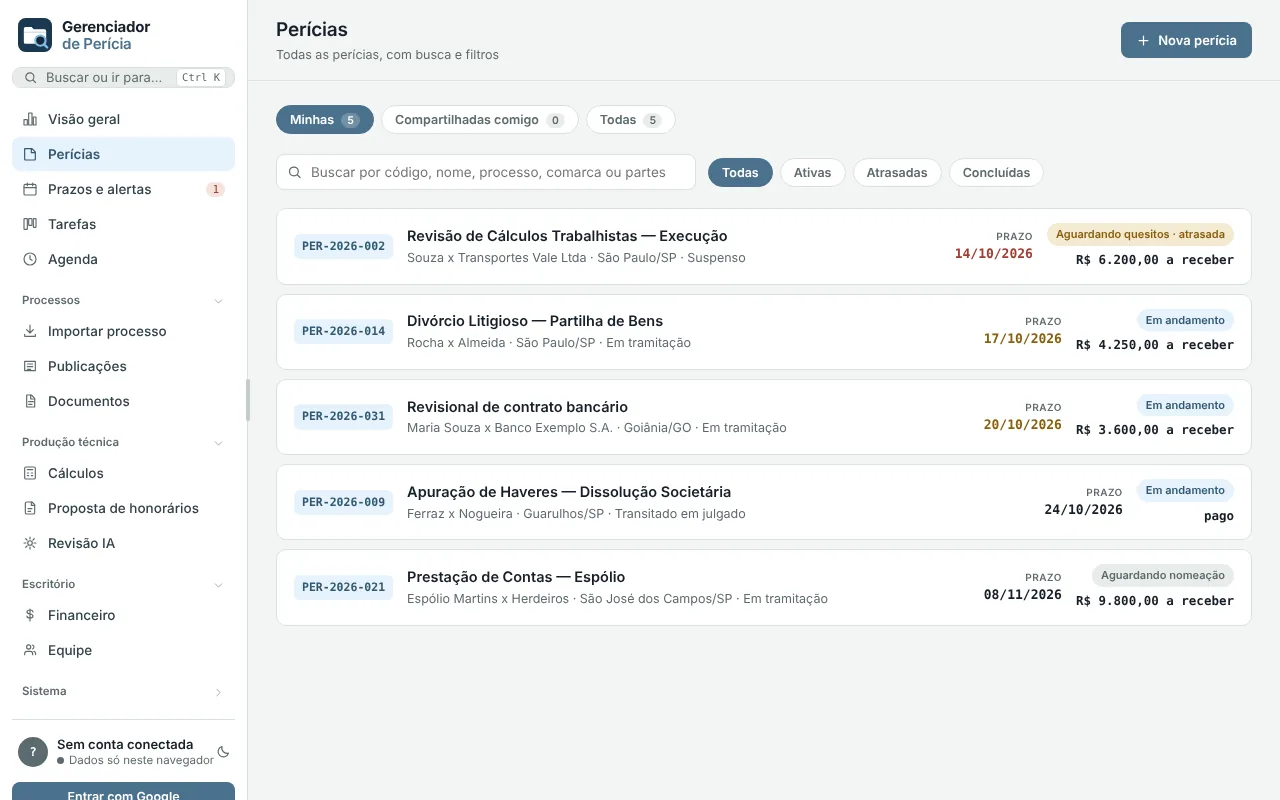
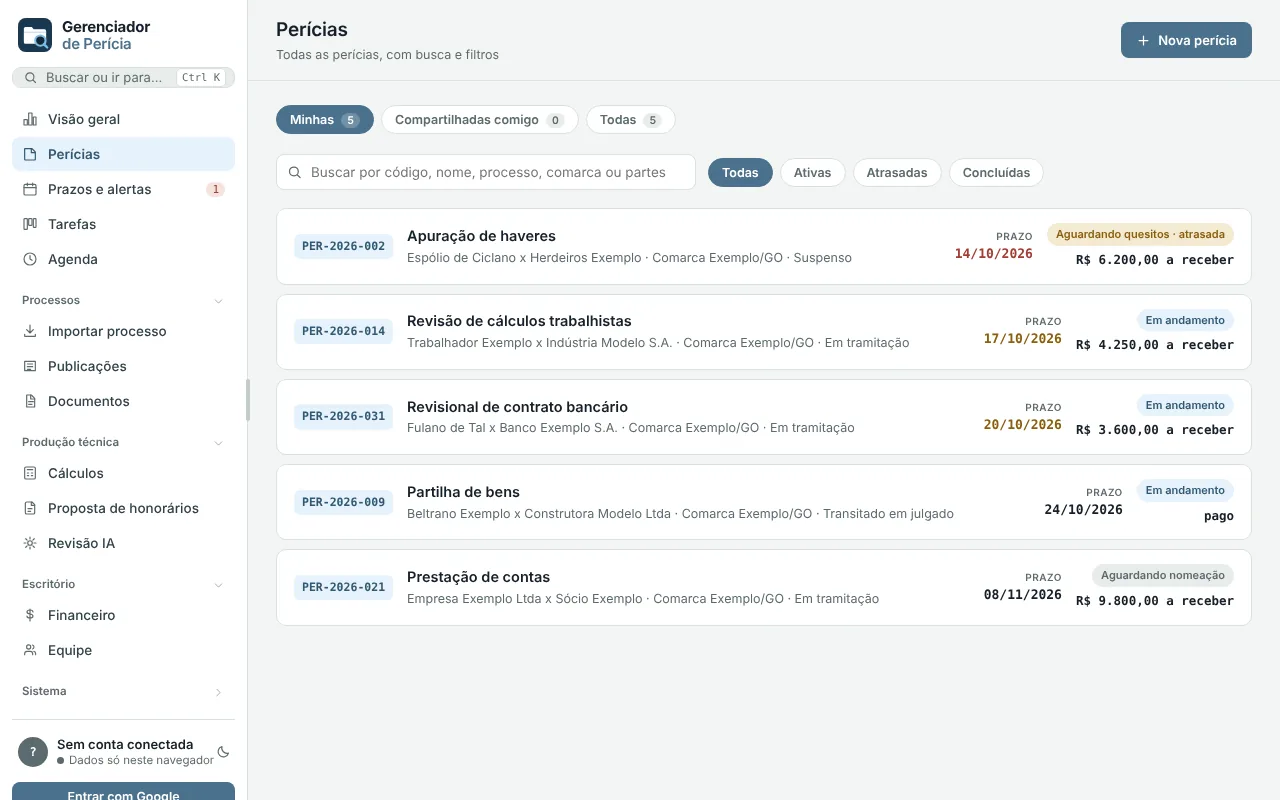
Esqueci a senha com tela própria; demonstração sem dados reais; sem aviso repetido de conta
- "Esqueci a senha" abre a tela Redefinir a senha (leva o e-mail digitado),
  confirma o envio com "Confira o seu e-mail" e libera reenviar após 30 s.
- Telas da apresentação e dados de exemplo internos com números de processo
  zerados (0000001-00.2025.8.00.0000...), partes e e-mails fictícios.
- Tira o quadro "Conectado como..." / "Dados salvos neste navegador" do topo:
  o rodapé da barra lateral já mostra a conta e se está sincronizado. Avisos de
  erro continuam aparecendo.

Claude-Session: https://claude.ai/code/session_01Q2ZR283zQpWnWMQdfmL3dN

diff --git a/index.html b/index.html
@@ -793,6 +793,11 @@ body.travado{overflow:hidden;}
 .login-dica{display:block; margin-top:5px; font-size:11.5px; color:var(--muted);}
 .login-troca{margin:16px 0 0; text-align:center; font-size:13px; color:var(--muted);}
 .login-troca button{font-weight:600;}
+.login-tit{margin:4px 0 6px; font-size:19px; font-weight:600; color:var(--ink);}
+.login-txt{margin:0 0 18px; font-size:13.5px; line-height:1.6; color:var(--ink-2);}
+.login-txt-mudo{font-size:12.5px; color:var(--muted);}
+.login-ok{width:52px; height:52px; border-radius:14px; display:grid; place-items:center; margin:8px 0 14px; background:var(--accent-soft); color:var(--accent-deep);}
+.login-ok svg{width:26px; height:26px;}
 .login-termos{margin:20px 0 0; text-align:center; font-size:11.5px; line-height:1.55; color:var(--muted);}
 .login-termos .lg-link{color:var(--muted);}
 .login-termos .lg-link:hover{color:var(--ink);}
@@ -1892,23 +1897,23 @@ const ICONS = {
 
 function seedData(){
   return [
-    {id:'seed-1', dono:'jonatasmiranda2405@gmail.com', emails:['jonatasmiranda2405@gmail.com'], editores:['jonatasmiranda2405@gmail.com'], compartilhamentos:[], codigo:'PER-2026-014', nome:'Divórcio Litigioso — Partilha de Bens', numeroProcesso:'0812345-67.2025.8.26.0100', codigoAcesso:'JF7K92QX', statusProcesso:'em_tramitacao', vara:'3ª Vara de Família', comarca:'São Paulo/SP', partes:'Rocha x Almeida', dataNomeacao:'2026-06-02', prazoEntrega:'2026-09-25', honorarios:8500, valorRecebido:4250, statusCaso:'em_andamento',
+    {id:'seed-1', dono:'perito.a@exemplo.com', emails:['perito.a@exemplo.com'], editores:['perito.a@exemplo.com'], compartilhamentos:[], codigo:'PER-2026-014', nome:'Divórcio Litigioso — Partilha de Bens', numeroProcesso:'0000001-00.2025.8.00.0000', codigoAcesso:'EXEMPLO1', statusProcesso:'em_tramitacao', vara:'3ª Vara de Família', comarca:'Comarca Exemplo/SP', partes:'Fulano de Tal x Beltrana Exemplo', dataNomeacao:'2026-06-02', prazoEntrega:'2026-09-25', honorarios:8500, valorRecebido:4250, statusCaso:'em_andamento',
       documentos:[
         {id:'d1', nome:'Procuração', tipo:'Procuração', fase:'Habilitação das Partes', data:'2026-06-10', obs:''},
         {id:'d2', nome:'Quesitos do juízo', tipo:'Quesitos', fase:'Quesitos das Partes', data:'2026-07-01', obs:'Recebidos via DJE'}
       ],
       observacoes:[{id:'o1',data:'2026-07-15',texto:'Aguardando resposta do banco sobre extratos societários solicitados por ofício.'}]},
-    {id:'seed-2', dono:'rodrigodosantosmiranda@gmail.com', emails:['rodrigodosantosmiranda@gmail.com'], editores:['rodrigodosantosmiranda@gmail.com'], compartilhamentos:[], codigo:'PER-2026-009', nome:'Apuração de Haveres — Dissolução Societária', numeroProcesso:'1002233-11.2024.8.26.0224', codigoAcesso:'RN4T18BZ', statusProcesso:'transitado', vara:'2ª Vara Empresarial', comarca:'Guarulhos/SP', partes:'Ferraz x Nogueira', dataNomeacao:'2026-03-14', prazoEntrega:'2026-08-20', honorarios:14000, valorRecebido:14000, statusCaso:'concluida',
+    {id:'seed-2', dono:'perito.b@exemplo.com', emails:['perito.b@exemplo.com'], editores:['perito.b@exemplo.com'], compartilhamentos:[], codigo:'PER-2026-009', nome:'Apuração de Haveres — Dissolução Societária', numeroProcesso:'0000002-00.2025.8.00.0000', codigoAcesso:'EXEMPLO2', statusProcesso:'transitado', vara:'2ª Vara Empresarial', comarca:'Comarca Exemplo/SP', partes:'Empresa Exemplo Ltda x Sócio Exemplo', dataNomeacao:'2026-03-14', prazoEntrega:'2026-08-20', honorarios:14000, valorRecebido:14000, statusCaso:'concluida',
       documentos:[
         {id:'d3', nome:'Laudo Pericial Contábil', tipo:'Laudo Pericial', fase:'Laudo Pericial', data:'2026-08-18', obs:'Protocolado nos autos'}
       ],
       observacoes:[{id:'o2',data:'2026-08-19',texto:'Levantamento concluído; honorários integralmente recebidos.'}]},
-    {id:'seed-3', dono:'jonatasmiranda2405@gmail.com', emails:['jonatasmiranda2405@gmail.com'], editores:['jonatasmiranda2405@gmail.com'], compartilhamentos:[], codigo:'PER-2026-002', nome:'Revisão de Cálculos Trabalhistas — Execução', numeroProcesso:'0045566-90.2023.5.02.0031', codigoAcesso:'', statusProcesso:'suspenso', vara:'31ª Vara do Trabalho', comarca:'São Paulo/SP', partes:'Souza x Transportes Vale Ltda', dataNomeacao:'2025-11-20', prazoEntrega:'2026-08-30', honorarios:6200, valorRecebido:0, statusCaso:'aguardando_quesitos',
+    {id:'seed-3', dono:'perito.a@exemplo.com', emails:['perito.a@exemplo.com'], editores:['perito.a@exemplo.com'], compartilhamentos:[], codigo:'PER-2026-002', nome:'Revisão de Cálculos Trabalhistas — Execução', numeroProcesso:'0000003-00.2025.8.00.0000', codigoAcesso:'', statusProcesso:'suspenso', vara:'31ª Vara do Trabalho', comarca:'Comarca Exemplo/SP', partes:'Trabalhador Exemplo x Transportadora Modelo Ltda', dataNomeacao:'2025-11-20', prazoEntrega:'2026-08-30', honorarios:6200, valorRecebido:0, statusCaso:'aguardando_quesitos',
       documentos:[
         {id:'d5', nome:'Despacho — quesitos suplementares', tipo:'Despacho', fase:'Despacho de Quesitos Suplementares', data:'2026-06-01', obs:''}
       ],
       observacoes:[{id:'o3',data:'2026-06-02',texto:'Partes intimadas para apresentação de quesitos suplementares.'}]},
-    {id:'seed-4', dono:'rodrigodosantosmiranda@gmail.com', emails:['rodrigodosantosmiranda@gmail.com'], editores:['rodrigodosantosmiranda@gmail.com'], compartilhamentos:[], codigo:'PER-2026-021', nome:'Prestação de Contas — Espólio', numeroProcesso:'0678812-45.2025.8.26.0577', codigoAcesso:'', statusProcesso:'em_tramitacao', vara:'1ª Vara de Sucessões', comarca:'São José dos Campos/SP', partes:'Espólio Martins x Herdeiros', dataNomeacao:'2026-08-01', prazoEntrega:'2026-11-30', honorarios:9800, valorRecebido:0, statusCaso:'aguardando_nomeacao',
+    {id:'seed-4', dono:'perito.b@exemplo.com', emails:['perito.b@exemplo.com'], editores:['perito.b@exemplo.com'], compartilhamentos:[], codigo:'PER-2026-021', nome:'Prestação de Contas — Espólio', numeroProcesso:'0000004-00.2025.8.00.0000', codigoAcesso:'', statusProcesso:'em_tramitacao', vara:'1ª Vara de Sucessões', comarca:'Comarca Exemplo/SP', partes:'Espólio de Ciclano x Herdeiros Exemplo', dataNomeacao:'2026-08-01', prazoEntrega:'2026-11-30', honorarios:9800, valorRecebido:0, statusCaso:'aguardando_nomeacao',
       documentos:[],
       observacoes:[{id:'o4',data:'2026-08-05',texto:'Nomeação publicada no DJE; aguardando decurso do prazo recursal das partes.'}]},
   ];
@@ -5032,11 +5037,17 @@ function avisoLogin(texto, tipo){
   el.textContent = texto || '';
   el.className = 'login-aviso ' + (tipo || '');
 }
+let loginEmailMemo = '';
+let recuperarEnviado = '';
+let recuperarEspera = 0;
 function trocarModoLogin(modo){
+  const em = document.getElementById('loginEmail');
+  if(em) loginEmailMemo = em.value.trim();
   loginModo = modo;
+  if(modo !== 'recuperar') recuperarEnviado = '';
   renderLogin();
   const alvo = document.getElementById(modo === 'criar' ? 'loginNome' : 'loginEmail');
-  if(alvo) alvo.focus();
+  if(alvo){ if(alvo.id === 'loginEmail' && loginEmailMemo && !alvo.value) alvo.value = loginEmailMemo; alvo.focus(); }
 }
 
 async function entrarComSenha(){
@@ -5076,10 +5087,13 @@ async function criarConta(){
   }
 }
 
-async function recuperarSenha(){
-  if(!auth) return;
-  const email = (document.getElementById('loginEmail').value || '').trim();
-  if(!email){ avisoLogin('Digite o e-mail cadastrado para receber o link.', 'erro'); return; }
+async function recuperarSenha(reenviar){
+  if(!auth){ avisoLogin('Sem conexão com o servidor de contas agora. Tente de novo em instantes.', 'erro'); return; }
+  const campo = document.getElementById('loginEmail');
+  const email = reenviar ? recuperarEnviado : ((campo && campo.value) || '').trim();
+  if(!email){ avisoLogin('Digite o e-mail da sua conta.', 'erro'); return; }
+  if(!/^[^\s@]+@[^\s@]+\.[^\s@]{2,}$/.test(email)){ avisoLogin('Esse e-mail não parece válido.', 'erro'); return; }
+  if(reenviar && Date.now() < recuperarEspera) return;
   avisoLogin('Enviando...');
   try{ await auth.sendPasswordResetEmail(email); }
   catch(e){
@@ -5088,7 +5102,12 @@ async function recuperarSenha(){
        a lista de quem tem conta no sistema */
     if(e.code !== 'auth/user-not-found'){ avisoLogin(mensagemAuth(e.code), 'erro'); return; }
   }
-  avisoLogin('Se esse e-mail tiver conta, o link já está a caminho. A mensagem vem de noreply@gerenciador-pericias-app.firebaseapp.com — se não aparecer, procure no spam.', 'ok');
+  loginEmailMemo = email;
+  recuperarEnviado = email;
+  recuperarEspera = Date.now() + 30000;
+  loginModo = 'recuperar';
+  renderLogin();
+  setTimeout(() => { if(loginModo === 'recuperar' && recuperarEnviado) renderLogin(); }, 30500);
 }
 
 /* ---------- confirmação do e-mail ---------- */
@@ -5168,7 +5187,39 @@ function renderLogin(){
     ? `<div class="lp-janela-caixa"><button class="icon-btn lp-janela-fechar" onclick="lpFecharEntrar()" aria-label="Fechar">${svg('<path d="M6 6l12 12M18 6L6 18"/>')}</button>${loginCaixaHtml()}</div>`
     : '';
 }
+function loginRecuperarHtml(){
+  const marca = `<div class="login-marca"><span class="brand-mark grande">${MARCA_SVG}</span>
+        <span class="wordmark grande"><b>Gerenciador</b><i>de Perícia</i></span></div>`;
+  if(recuperarEnviado){
+    const falta = Math.max(0, Math.ceil((recuperarEspera - Date.now()) / 1000));
+    return `
+    <div class="login-caixa">
+      ${marca}
+      <div class="login-ok">${svg('<rect x="3" y="5" width="18" height="14" rx="2"/><path d="M3 7l9 6 9-6"/>')}</div>
+      <h2 class="login-tit">Confira o seu e-mail</h2>
+      <p class="login-txt">Se <b>${escapeHtml(recuperarEnviado)}</b> tiver conta, enviamos um link para criar uma nova senha. Ele vale por 1 hora.</p>
+      <p class="login-txt login-txt-mudo">Não chegou? Procure no spam ou nas promoções. O remetente é noreply@gerenciador-pericias-app.firebaseapp.com.</p>
+      <button class="btn btn-primary login-entrar" onclick="trocarModoLogin('entrar')">Voltar para entrar</button>
+      <p class="login-troca">${falta > 0 ? `Pode reenviar em ${falta} s` : `<button type="button" onclick="recuperarSenha(true)">Reenviar o link</button>`}</p>
+      <div id="loginAviso" class="login-aviso"></div>
+    </div>`;
+  }
+  return `
+    <div class="login-caixa">
+      ${marca}
+      <h2 class="login-tit">Redefinir a senha</h2>
+      <p class="login-txt">Informe o e-mail da sua conta. Vamos enviar um link para você criar uma nova senha.</p>
+      <div class="field"><label for="loginEmail">E-mail</label>
+        <input id="loginEmail" type="email" autocomplete="username" placeholder="seu@email.com" value="${escapeHtml(loginEmailMemo)}"
+               onkeydown="if(event.key==='Enter'){event.preventDefault();recuperarSenha()}"></div>
+      <button class="btn btn-primary login-entrar" onclick="recuperarSenha()">Enviar link</button>
+      <p class="login-troca">Lembrou a senha? <button type="button" onclick="trocarModoLogin('entrar')">Voltar para entrar</button></p>
+      <p class="login-termos">Entrou sempre pelo Google? Você também pode criar uma senha por aqui, com o mesmo e-mail.</p>
+      <div id="loginAviso" class="login-aviso"></div>
+    </div>`;
+}
 function loginCaixaHtml(){
+  if(loginModo === 'recuperar') return loginRecuperarHtml();
   const criando = loginModo === 'criar';
   return `
     <div class="login-caixa">
@@ -5194,7 +5245,7 @@ function loginCaixaHtml(){
         <input id="loginEmail" type="email" autocomplete="username" placeholder="seu@email.com"
                onkeydown="if(event.key==='Enter'){event.preventDefault();document.getElementById('loginSenha').focus()}"></div>
 
-      <div class="field" style="margin-top:10px;"><div class="login-rot"><label for="loginSenha">Senha</label>${criando ? '' : '<button type="button" class="login-esqueci" onclick="recuperarSenha()">Esqueci a senha</button>'}</div>
+      <div class="field" style="margin-top:10px;"><div class="login-rot"><label for="loginSenha">Senha</label>${criando ? '' : '<button type="button" class="login-esqueci" onclick="trocarModoLogin(\'recuperar\')">Esqueci a senha</button>'}</div>
         <input id="loginSenha" type="password" autocomplete="${criando ? 'new-password' : 'current-password'}" placeholder="••••••••"
                onkeydown="if(event.key==='Enter'){event.preventDefault();${criando ? 'criarConta()' : 'entrarComSenha()'}}">
         ${criando ? '<span class="login-dica">Pelo menos 8 caracteres, com letras e números.</span>' : ''}</div>
@@ -7194,7 +7245,7 @@ async function applyAuthState(){
     usingDb = true;
     usingLocalStorage = false;
     await startDbSync();
-    cloudSetBanner(bannerInfo('Conectado como ' + escapeHtml(currentUser.email) + '. Os dados sincronizam automaticamente entre os dispositivos em que você entrar com esta conta.'));
+    cloudSetBanner('');   /* conta e sincronização já aparecem no rodapé da barra lateral */
   } else {
     usingDb = false;
     db = null;
@@ -7204,7 +7255,7 @@ async function applyAuthState(){
     if(loaded) casos = loaded;
     usingLocalStorage = true;
     persistCasosToLocalStorage();
-    cloudSetBanner(bannerInfo('Dados salvos automaticamente neste navegador. Entre com uma conta da equipe para sincronizar entre dispositivos.'));
+    cloudSetBanner('');   /* o rodapé da barra lateral já mostra "Dados só neste navegador" */
     renderAll();
   }
 }
@@ -7273,7 +7324,7 @@ async function initDb(){
   if(loaded) casos = loaded;
   usingLocalStorage = true;
   persistCasosToLocalStorage();
-  cloudSetBanner(bannerInfo('Dados salvos automaticamente neste navegador. Entre com uma conta da equipe para sincronizar entre dispositivos.'));
+  cloudSetBanner('');   /* o rodapé da barra lateral já mostra "Dados só neste navegador" */
   renderAll();
   firebaseInit();
 }

diff --git a/testes/teste-telas.js b/testes/teste-telas.js
@@ -321,6 +321,15 @@ const check = (n, ok, x) => { res.push(ok); console.log(ok ? "  ✔" : "  ✘", 
   await pf.click('#login .lp-cab-acoes button:has-text("Entrar")');
   await sleep(200);
   check("Entrar abre o login em janela", await pf.isVisible("#lpJanela #loginEmail") && await pf.evaluate(() => document.activeElement && document.activeElement.id === "loginEmail"));
+  await pf.fill("#lpJanela #loginEmail", "perita@exemplo.com");
+  await pf.click('#lpJanela button:has-text("Esqueci a senha")');
+  await sleep(150);
+  check("Esqueci a senha abre a tela própria com o e-mail digitado", /Redefinir a senha/.test(await pf.textContent("#lpJanela")) && await pf.inputValue("#lpJanela #loginEmail") === "perita@exemplo.com");
+  await pf.evaluate(() => { recuperarEnviado = "perita@exemplo.com"; recuperarEspera = Date.now() + 30000; renderLogin(); });
+  check("depois do envio: confira o e-mail, com espera para reenviar", /Confira o seu e-mail/.test(await pf.textContent("#lpJanela")) && /Pode reenviar em/.test(await pf.textContent("#lpJanela")));
+  await pf.click('#lpJanela button:has-text("Voltar para entrar")');
+  await sleep(150);
+  check("voltar para entrar", await pf.isVisible("#lpJanela #loginSenha"));
   await pf.click('#lpJanela button:has-text("Criar conta grátis")');
   await sleep(150);
   check("trocar para criar conta na janela", await pf.isVisible("#lpJanela #loginNome"));

diff --git a/README.md b/README.md
@@ -83,7 +83,7 @@ volta a ser o de antes; os dados não mudam.
 
 Precisa de Node, PHP (pdo_sqlite e openssl), OpenSSL e Playwright com Chromium. O script
 sobe o PROJUDI simulado (HTTPS local) e o PHP de teste (SQLite), e roda as três suítes:
-o fluxo dos autos no site (24), as telas, a barra lateral, a paleta, a Revisão IA, Meu perfil, Configurações, segurança e termos (75) e o PHP com o Mercado Pago (13).
+o fluxo dos autos no site (24), as telas, a barra lateral, a paleta, a Revisão IA, Meu perfil, Configurações, segurança, termos e apresentação (78) e o PHP com o Mercado Pago (13).
 
 ## Publicar uma nova versão da extensão
 
